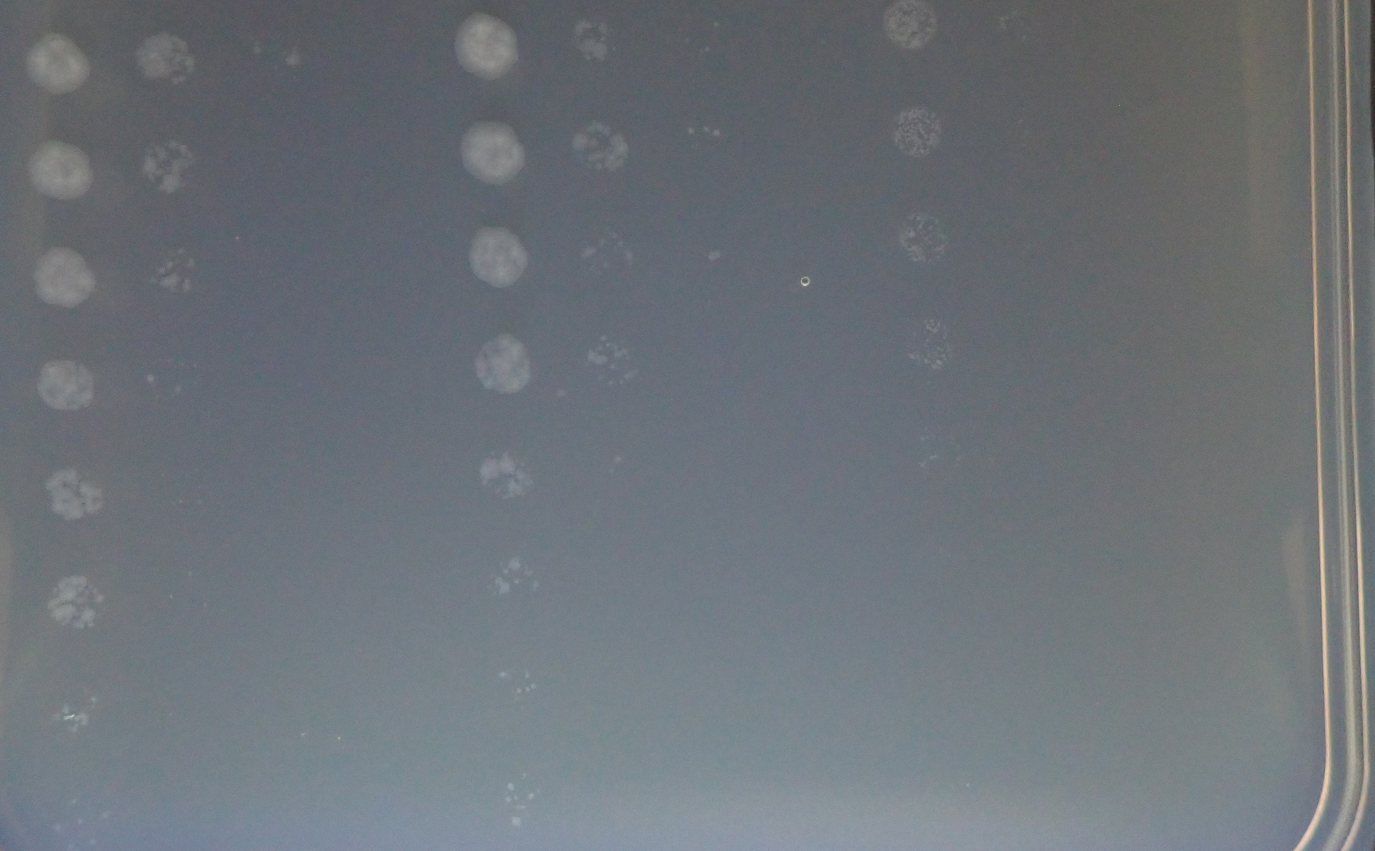
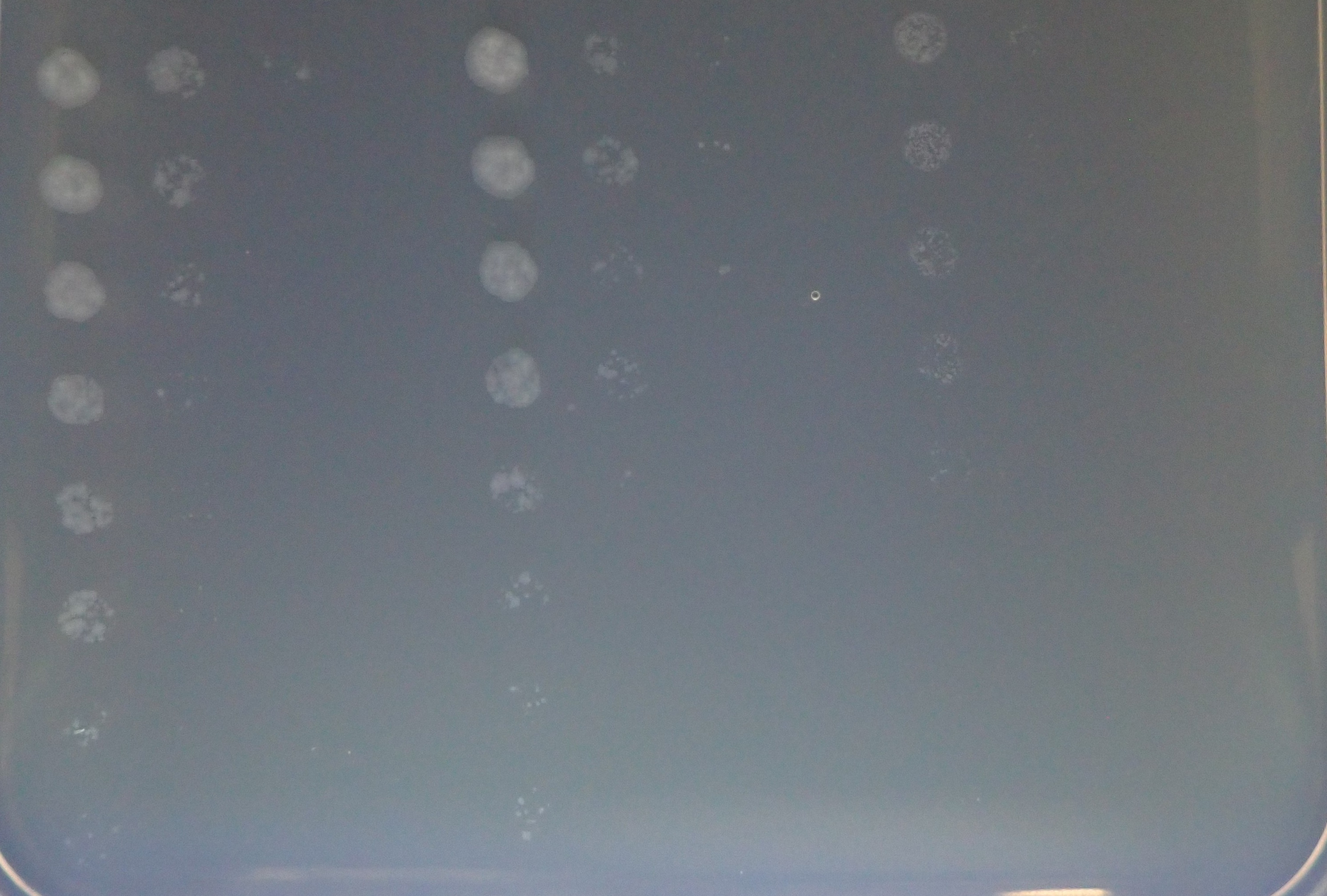
Cropping is fixed
Remaining issues:
1. Grid is not perfect
2. when no clusters are detected the program does not display an image
3. the history s being reset somewhere

diff --git a/GUI copy.py b/GUI copy.py
@@ -8,7 +8,7 @@ import os
 
 # from tkinter import *
 # Explicit imports to satisfy Flake8
-from tkinter import Tk, Canvas, Entry, Text, Button, PhotoImage,filedialog,font, Frame, Label,messagebox, Scale, HORIZONTAL,BooleanVar, Checkbutton, CENTER
+from tkinter import Tk, Canvas, Entry, Text, Button, PhotoImage,filedialog,font, Frame, Label,messagebox, Scale, HORIZONTAL,BooleanVar, Checkbutton
 from tkinter import ttk
 import cv2
 import numpy as np
@@ -68,24 +68,7 @@ def display_results(window):
         pady=10
     )
     finish_button.place(relx=0.5, rely=0.9, anchor="center")
-
-def upload_images(window):
-    file_paths = filedialog.askopenfilenames(filetypes=[("Image files", "*.png *.jpg *.jpeg *.bmp *.gif")])
-    if file_paths:
-        window.image_paths = list(file_paths)
-        window.current_image_index = 0
-        load_current_image(window)
-        create_cropFrame(window)  # Go to the cropping screen instead of the edit screen
-
-def load_current_image(window):
-    window.image_path = window.image_paths[window.current_image_index]
-    window.original_image = cv2.imread(window.image_path)
-    window.current_image = window.original_image.copy()
-
-
-
 def display_final_image(window):
-    add_to_history(window)
     # Clear the window
     for widget in window.winfo_children():
         widget.destroy()
@@ -259,172 +242,26 @@ def create_titleFrame(window):
         image=button_image_3,
         borderwidth=0,
         highlightthickness=0,
-        command=lambda: create_cropFrame(window),
+        command=lambda: process_image(window),
         relief="flat"
     )
     button_3.place(x=616.0, y=861.0, width=207.0, height=61.0)
    
     #return canvas, image_image_10, button_image_1, button_1, button_image_2, button_2, button_image_3, button_3
     return canvas, image_image_10, button_1, button_2, button_image_3, button_3
-
-
-#  .o88b. d8888b.  .d88b.  d8888b. d8888b. d888888b d8b   db  d888b  
-# d8P  Y8 88  `8D .8P  Y8. 88  `8D 88  `8D   `88'   888o  88 88' Y8b 
-# 8P      88oobY' 88    88 88oodD' 88oodD'    88    88V8o 88 88      
-# 8b      88`8b   88    88 88~~~   88~~~      88    88 V8o88 88  ooo 
-# Y8b  d8 88 `88. `8b  d8' 88      88        .88.   88  V888 88. ~8~ 
-#  `Y88P' 88   YD  `Y88P'  88      88      Y888888P VP   V8P  Y888P  
-
-def resize_for_display_crop(image, max_width=1280, max_height=720):
-    """Resize image for display while maintaining aspect ratio."""
-    h, w = image.shape[:2]
-    scale = min(max_width/w, max_height/h)
-    new_size = (int(w*scale), int(h*scale))
-    return cv2.resize(image, new_size, interpolation=cv2.INTER_AREA), scale
-
-def start_crop(event, window):
-    window.cropping = True
-    window.x_start, window.y_start = event.x, event.y
-
-def crop(event, window, canvas):
-    if window.cropping:
-        window.x_end, window.y_end = event.x, event.y
-        canvas.delete("crop_rectangle")
-        canvas.create_rectangle(window.x_start, window.y_start, window.x_end, window.y_end,
-                                outline="green", tags="crop_rectangle")
-
-def end_crop(event, window, canvas):
-    window.cropping = False
-
-def apply_crop(window):
-    if window.x_start != window.x_end and window.y_start != window.y_end:
-        # Calculate the dimensions of the original image
-        original_height, original_width = window.original_image.shape[:2]
-        
-        # Calculate the scaling factors
-        scale_x = original_width / window.display_width
-        scale_y = original_height / window.display_height
-        
-        # Calculate the offset of the image on the canvas
-        canvas_width = 1440  # From your create_cropFrame function
-        canvas_height = 1024  # From your create_cropFrame function
-        offset_x = (canvas_width - window.display_width) // 2
-        offset_y = (canvas_height - window.display_height) // 2
-        
-        # Apply scaling to crop coordinates, accounting for the offset
-        x_start = int((min(window.x_start, window.x_end) - offset_x) * scale_x)
-        y_start = int((min(window.y_start, window.y_end) - offset_y) * scale_y)
-        x_end = int((max(window.x_start, window.x_end) - offset_x) * scale_x)
-        y_end = int((max(window.y_start, window.y_end) - offset_y) * scale_y)
-        
-        # Ensure coordinates are within image bounds
-        x_start = max(0, x_start)
-        y_start = max(0, y_start)
-        x_end = min(x_end, original_width)
-        y_end = min(y_end, original_height)
-        
-        # Crop the image
-        window.current_image = window.original_image[y_start:y_end, x_start:x_end]
-        
-        # Debug: Save the cropped image and print dimensions
-        cv2.imwrite('debug_cropped.png', window.current_image)
-        print(f"Original image dimensions: {original_width}x{original_height}")
-        print(f"Display dimensions: {window.display_width}x{window.display_height}")
-        print(f"Canvas dimensions: {canvas_width}x{canvas_height}")
-        print(f"Image offset on canvas: x={offset_x}, y={offset_y}")
-        print(f"Scaling factors: x={scale_x:.2f}, y={scale_y:.2f}")
-        print(f"Crop coordinates (canvas): ({window.x_start}, {window.y_start}) to ({window.x_end}, {window.y_end})")
-        print(f"Crop coordinates (display): ({window.x_start-offset_x}, {window.y_start-offset_y}) to ({window.x_end-offset_x}, {window.y_end-offset_y})")
-        print(f"Crop coordinates (original): ({x_start}, {y_start}) to ({x_end}, {y_end})")
-        print(f"Cropped image dimensions: {x_end-x_start}x{y_end-y_start}")
-        
-        process_image(window)
-    else:
-        messagebox.showwarning("Warning", "Please select an area to crop.")
-def process_image(window):
-    # Apply your image processing steps here
-    stretched, blurred, gray_image = stretch_and_gray(window.current_image, 90, 150)
-    window.gray_image = gray_image
-    binary_image, contour_img, final_binary, block_size = binarize(window.gray_image, window.current_image, excludeSmallDots=window.excludeSmallDots, contrast=window.contrast_value)
-    
-    window.contour_img = contour_img
-    window.binarized_image = final_binary
-    window.debug_image = np.stack((final_binary,) * 3, axis=-1)
-    
-    # Only initialize history if it's empty
-    if not window.history:
-        window.history = [window.binarized_image.copy()]
-        window.redo_stack = []
-    
-    update_undo_redo_buttons(window)
-    create_editFrame(window)
-
-
-def create_cropFrame(window):
-    # Clear the window
-    for widget in window.winfo_children():
-        widget.destroy()
-
-    # Create a new canvas
-    canvas = Canvas(
-        window,
-        bg="#E4EDF5",
-        height=1024,
-        width=1440,
-        bd=0,
-        highlightthickness=0,
-        relief="ridge"
-    )
-    canvas.place(x=0, y=0)
-
- # Resize image for display
-    display_image, scale_factor = resize_for_display_crop(window.original_image)
-    window.scale_factor = scale_factor
-
-    # Convert OpenCV image to PhotoImage
-    image = cv2.cvtColor(display_image, cv2.COLOR_BGR2RGB)
-    image = Image.fromarray(image)
-    photo = ImageTk.PhotoImage(image=image)
-
-    # Create image on canvas
-    canvas.create_image(720, 512, image=photo, anchor=CENTER)
-    canvas.image = photo
-
-    # Store the display dimensions
-    window.display_width = photo.width()
-    window.display_height = photo.height()
-
-    # Cropping variables
-    window.cropping = False
-    window.x_start, window.y_start, window.x_end, window.y_end = 0, 0, 0, 0
-
-    # Bind mouse events
-    canvas.bind("<ButtonPress-1>", lambda event: start_crop(event, window))
-    canvas.bind("<B1-Motion>", lambda event: crop(event, window, canvas))
-    canvas.bind("<ButtonRelease-1>", lambda event: end_crop(event, window, canvas))
-
-    # Create crop button
-    crop_button = Button(
-        window,
-        text="Next",
-        command=lambda: apply_crop(window),
-        font=("Microsoft New Tai Lue", 14),
-        bg="#092934",
-        fg="#E4EDF5",
-        padx=20,
-        pady=10
-    )
-    crop_button.place(relx=0.5, rely=0.9, anchor=CENTER)
-
-
-
-
 def update_button_appearance(window, button, active_mode, active_image, inactive_image):
     if window.mode == active_mode:
         button.config(image=active_image)
     else:
         button.config(image=inactive_image)
 
+def process_image(window):
+    # Destroy all widgets in the window
+    for widget in window.winfo_children():
+        widget.destroy()
+    
+    # Create the edit frame
+    create_editFrame(window)
 
 def create_editFrame(window):
 
@@ -449,7 +286,7 @@ def create_editFrame(window):
         image=image_image_1
     )
 
-    window.show_original = False  # Initialize with showing the original image
+    window.show_original = True  # Initialize with showing the original image
     toggle_button = Button(
         window,
         text="Toggle Image",
@@ -802,27 +639,32 @@ def upload_txt_file(window):
             else:
                 messagebox.showerror("Error", "The uploaded file is not in the expected format. The format should be: 'A,B,C,YES/NO'.")
 
+def upload_images(window):
+    file_paths = filedialog.askopenfilenames(filetypes=[("Image files", "*.png *.jpg *.jpeg *.bmp *.gif")])
+    if file_paths:
+        window.image_paths = list(file_paths)
+        window.current_image_index = 0
+        load_current_image(window)
 
+def load_current_image(window):
+    window.image_path = window.image_paths[window.current_image_index]
+    window.original_image = cv2.imread(window.image_path)
+    
+    # Apply perspective correction
+   # window.original_image = correct_perspective_pipeline(window.original_image)
 
-# def load_current_image(window):
-#     window.image_path = window.image_paths[window.current_image_index]
-#     window.original_image = cv2.imread(window.image_path)
+    stretched, blurred, gray_image = stretch_and_gray(window.original_image, 90, 150)
+    window.gray_image = gray_image
+    binary_image, contour_img, final_binary, block_size = binarize(window.gray_image, window.original_image, excludeSmallDots=window.excludeSmallDots, contrast=window.contrast_value)
     
-#     # Apply perspective correction
-#    # window.original_image = correct_perspective_pipeline(window.original_image)
-
-#     stretched, blurred, gray_image = stretch_and_gray(window.original_image, 90, 150)
-#     window.gray_image = gray_image
-#     binary_image, contour_img, final_binary, block_size = binarize(window.gray_image, window.original_image, excludeSmallDots=window.excludeSmallDots, contrast=window.contrast_value)
+    window.contour_img = contour_img
+    window.binarized_image = final_binary
+    window.debug_image = np.stack((final_binary,) * 3, axis=-1)
     
-#     window.contour_img = contour_img
-#     window.binarized_image = final_binary
-#     window.debug_image = np.stack((final_binary,) * 3, axis=-1)
-    
-#     # Initialize history with the binarized image
-#     window.history = [window.binarized_image.copy()]
-#     window.redo_stack = []
-#     update_undo_redo_buttons(window)
+    # Initialize history with the binarized image
+    window.history = [window.binarized_image.copy()]
+    window.redo_stack = []
+    update_undo_redo_buttons(window)
 
 
 
@@ -890,16 +732,17 @@ def display_images(window):
 
         # Left image (toggleable)
         if window.show_original:
-            img_left = Image.fromarray(cv2.cvtColor(window.current_image, cv2.COLOR_BGR2RGB))
+            img_left = Image.open(window.image_path)
+            img_left = img_left.convert("RGB")
         else:
-            img_np = window.current_image
+            img_np = np.array(window.original_image)
             img_editing_resized = cv2.resize(np.array(img_editing), (img_np.shape[1], img_np.shape[0]))
             img_gray = cv2.cvtColor(img_editing_resized, cv2.COLOR_RGB2GRAY)
             contours, _ = cv2.findContours(img_gray, cv2.RETR_EXTERNAL, cv2.CHAIN_APPROX_SIMPLE)
             contour_img = img_np.copy()
             for cntr in contours:
                 cv2.drawContours(contour_img, [cntr], 0, (0, 255, 255), 2)
-            img_left = Image.fromarray(cv2.cvtColor(contour_img, cv2.COLOR_BGR2RGB))
+            img_left = Image.fromarray(contour_img)
 
         img_left.thumbnail((window.winfo_width()//2 - 60, window.winfo_height() - 200))
         window.photo_left = ImageTk.PhotoImage(img_left)
@@ -908,6 +751,7 @@ def display_images(window):
 
     except Exception as e:
         print(f"Error in display_images: {e}")
+
 
 def start_draw(window, event):
     window.is_drawing = True
@@ -1030,7 +874,6 @@ def initialize_window_attributes(window):
     window.next_button = None
     window.progress_bar = None
     window.progress_label = None
-    window.current_image = None 
 
 window = Tk()
 window.geometry("1440x1024")
